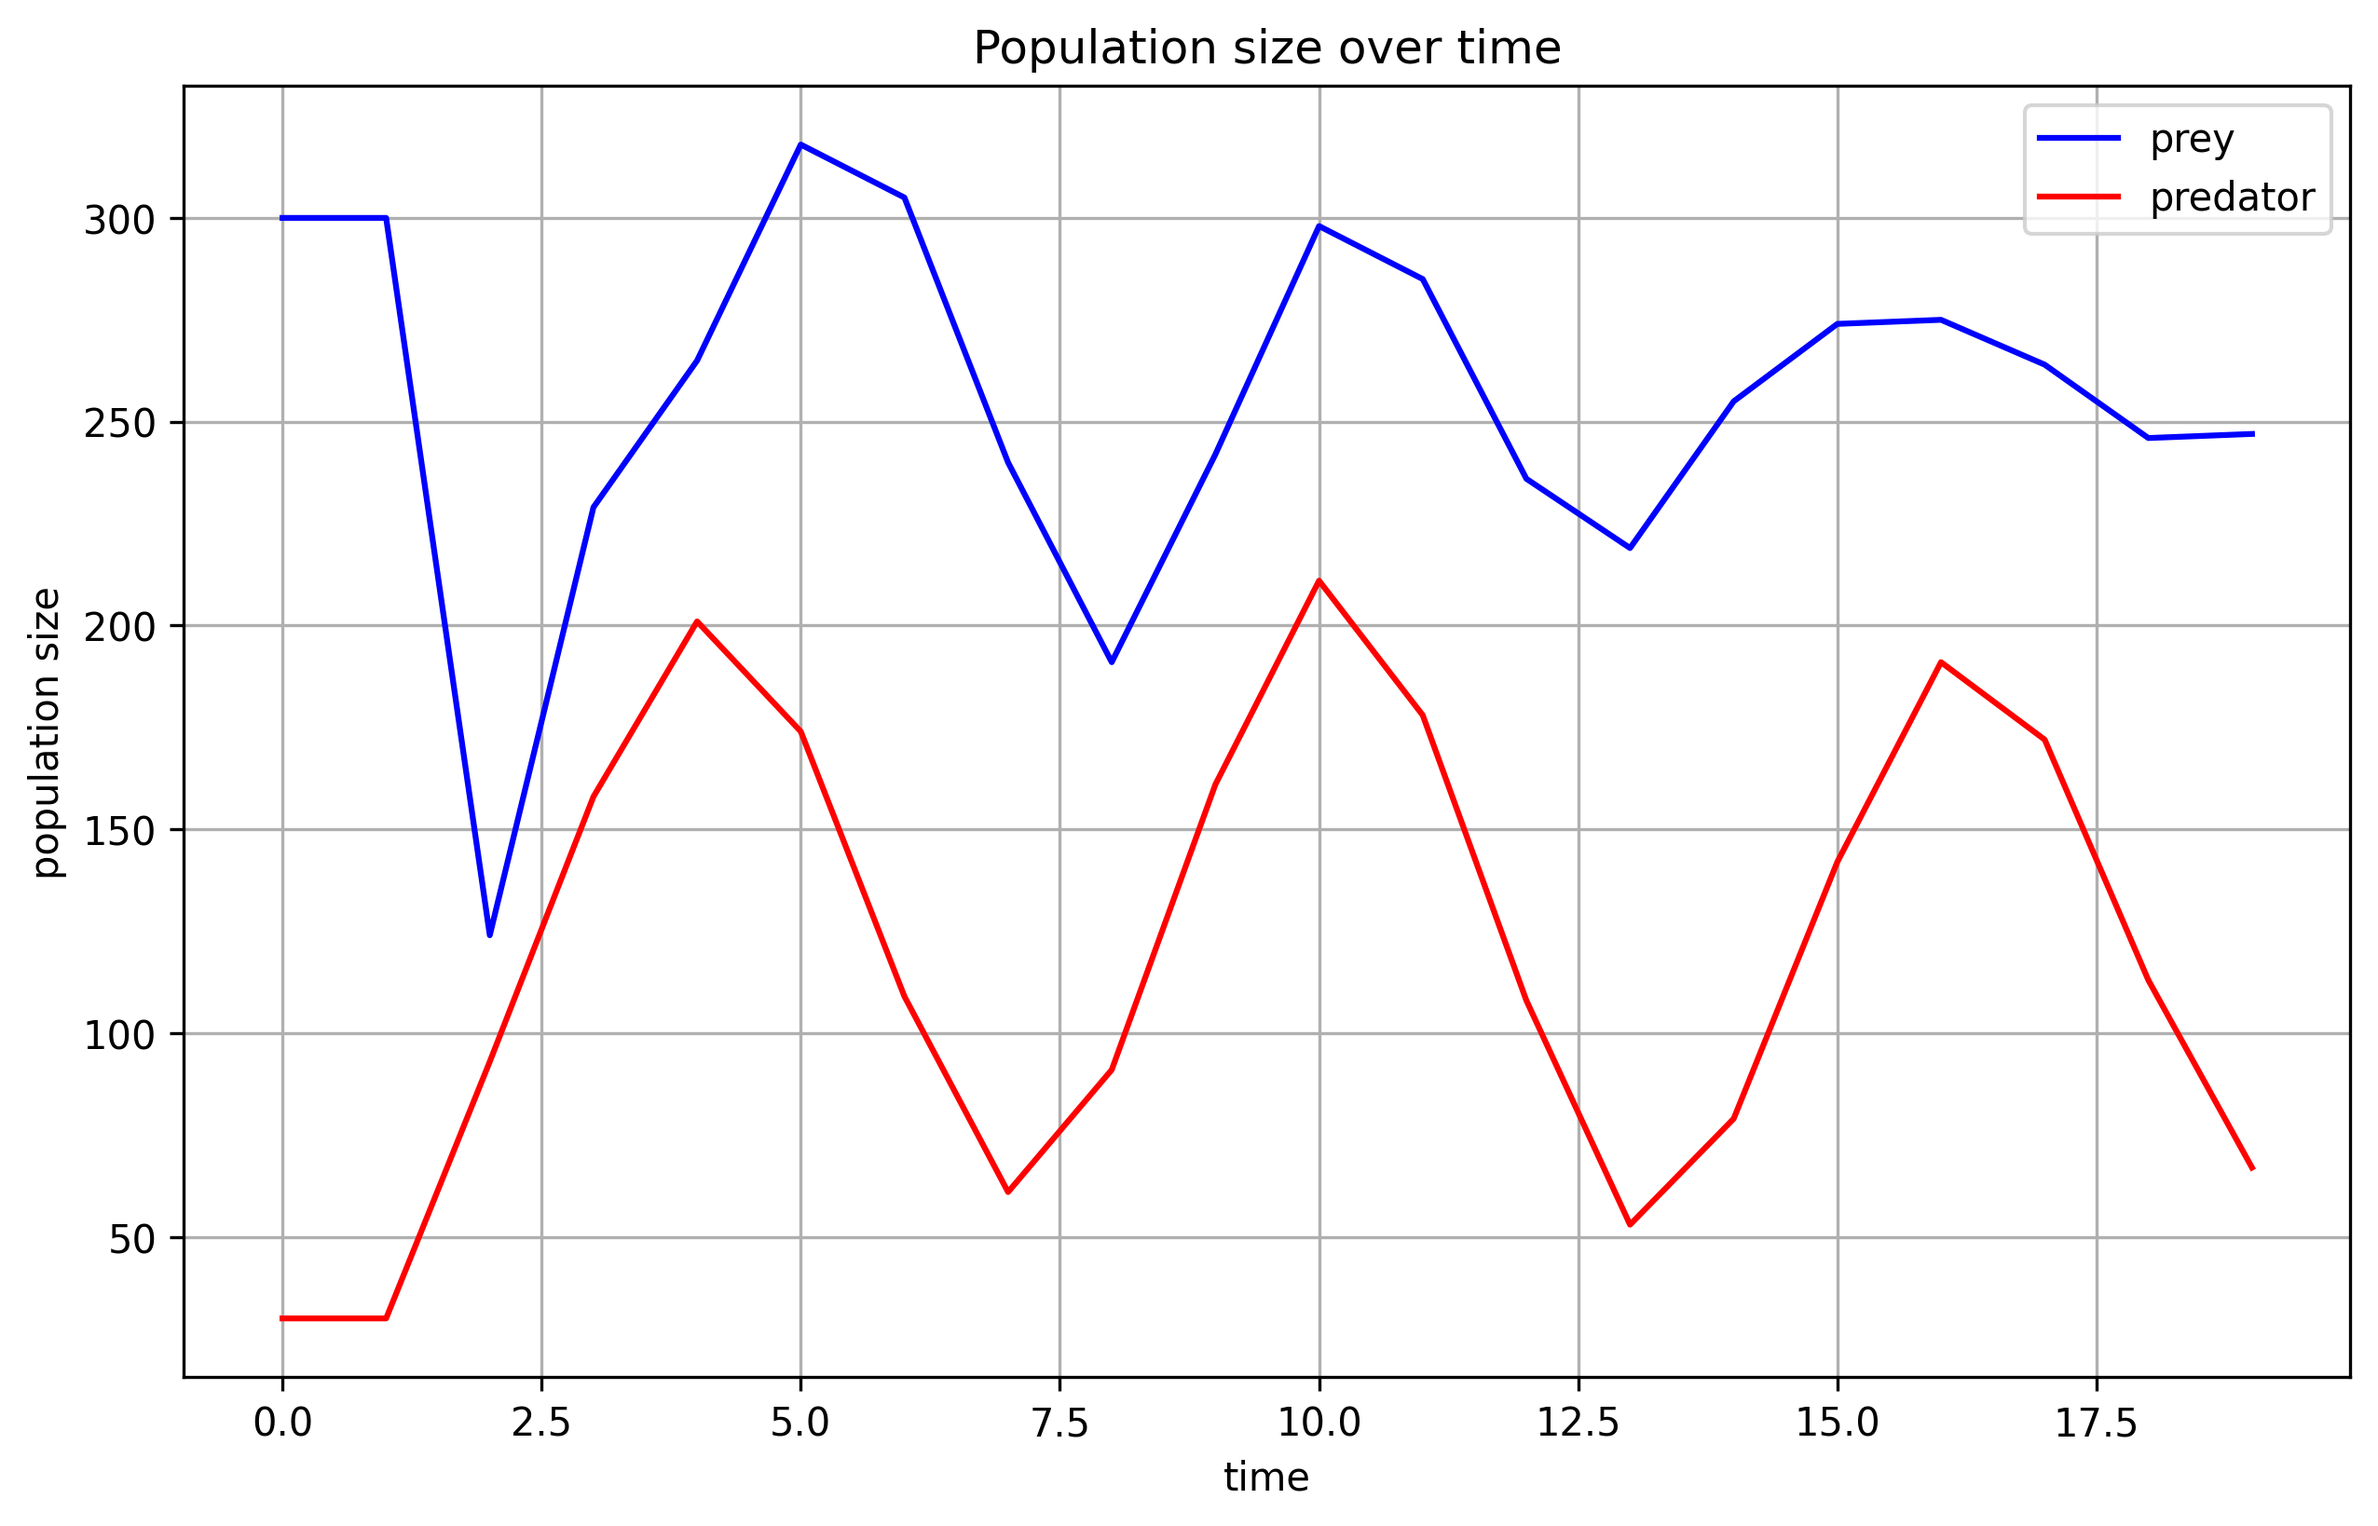
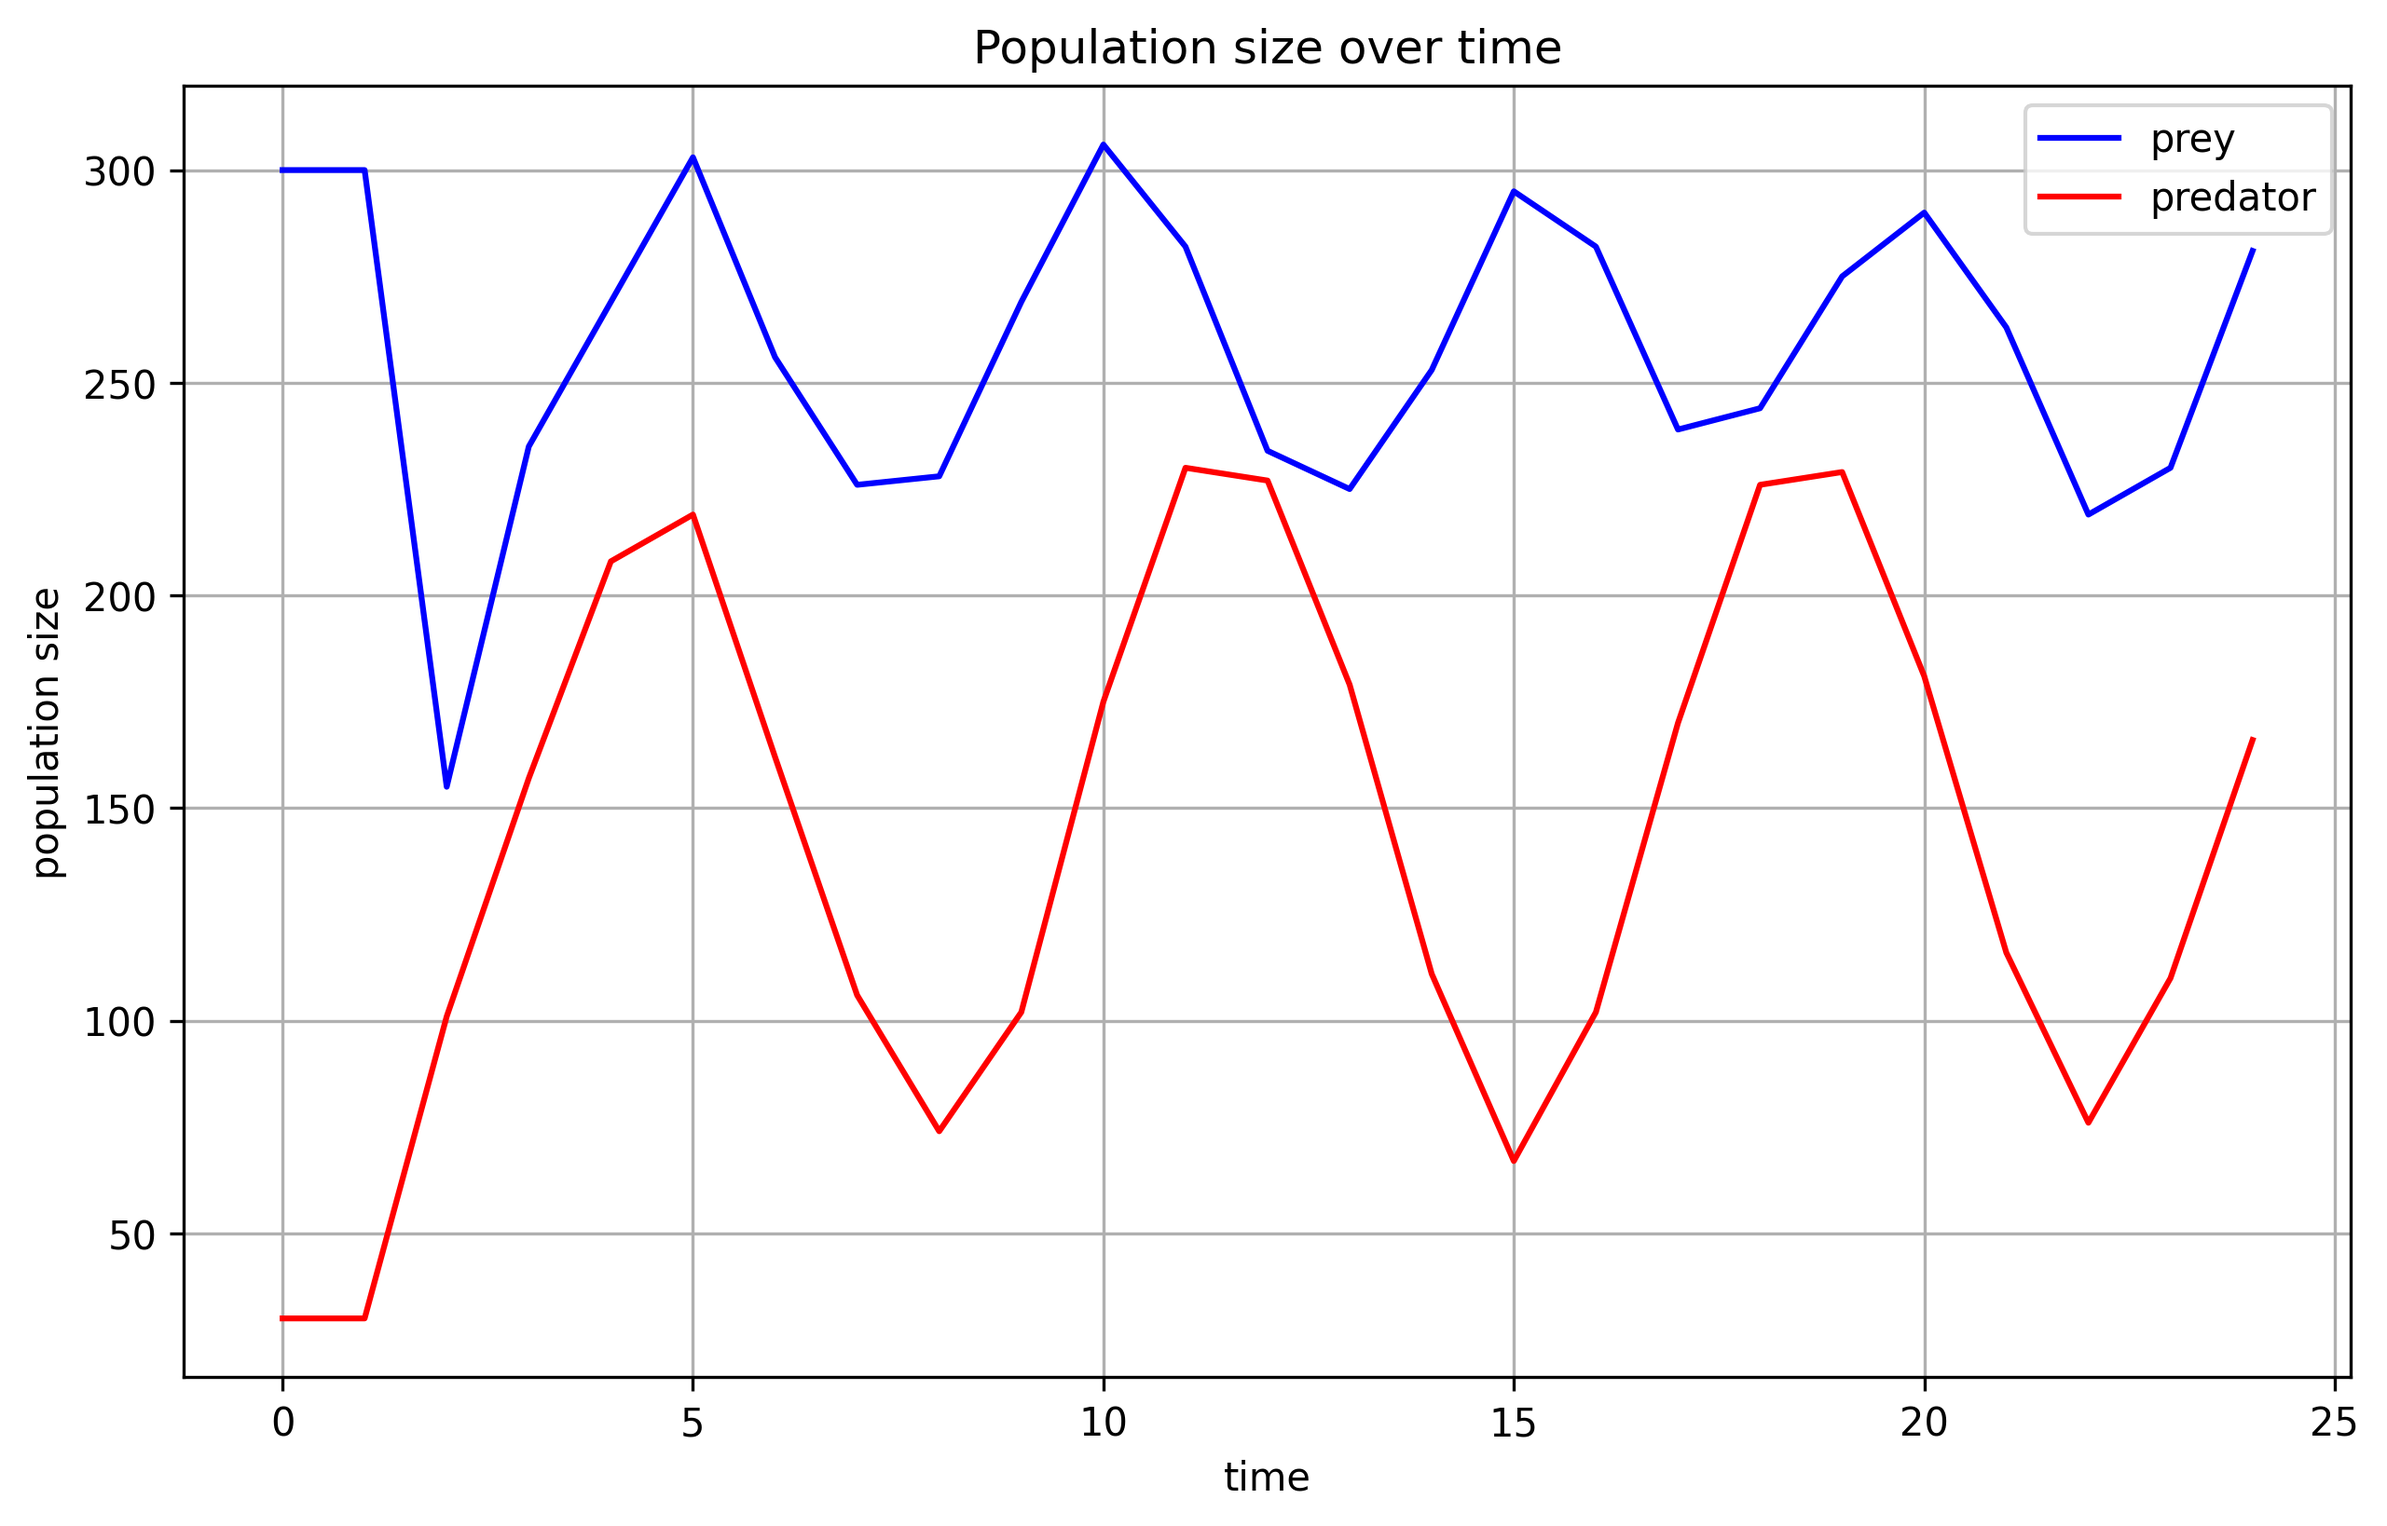
update

diff --git a/Two_Species_3rd.py b/Two_Species_3rd.py
@@ -1,4 +1,10 @@
 # @Author  : Mei Jiaojiao
+# @Time    : 2023/12/1 10:41
+# @Software: PyCharm
+# @File    : Two_Species_3rd.py
+
+
+# @Author  : Mei Jiaojiao
 # @Time    : 2023/12/01 08:52
 # @Software: PyCharm
 # @File    : Two_Species.py
@@ -60,7 +66,6 @@ class Prey(Species):
                 distance = np.sqrt((self.x - predator.x) ** 2 + (self.y - predator.y) ** 2)
                 if distance <= (self.activity_radius + predator.activity_radius):
                     self.being_caught = True
-                    self.num_offspring = 0
                     time_for_predation = 1
                     self.death_time = time_for_predation + current_time
                     predator.death_time += time_for_predation
@@ -144,7 +149,6 @@ class Predator(Species):
                     prey.being_caught = True
                     self.eat = True
                     time_for_predation = 1
-                    prey.num_offspring = 0
                     prey.death_time = time_for_predation + current_time
                     self.death_time += time_for_predation
                     if np.random.rand() < 1 - current_predator_pop_size / predator_pop_limit:
@@ -186,8 +190,7 @@ def update_predators_status(population, current_time):
             agent.status = 'active'
         if not agent.eat:
             agent.not_eat += 1
-            agent.num_offspring -= 1
-        if agent.not_eat == 4:
+        if agent.not_eat == 5:
             agent.status = 'dead'
 
 
@@ -200,30 +203,30 @@ def update_prey_status(population, current_time):
 
 
 # Prey and Predator params
-x_grid = 40
-y_grid = 40
-prey_pop_limit = 900
-time = 300
+x_grid = 50
+y_grid = 50
+prey_pop_limit = 500
+time = 25
 prey_params = {
     'x_grid': x_grid,
     'y_grid': y_grid,
     'species_name': 'prey',
-    'species_average_life_span': 12,
+    'species_average_life_span': 20,
     'species_offspring_possion_mean': 10,
     'init_species_size': 300,
     'activity_radius_max': 2,
-    'speed_max': 1
+    'speed_max': 3
 }
-predator_pop_limit = 150
+predator_pop_limit = 200
 predator_params = {
     'x_grid': x_grid,
     'y_grid': y_grid,
     'species_name': 'predator',
-    'species_average_life_span':7,
-    'species_offspring_possion_mean': 0.8,
-    'init_species_size': 10,
-    'activity_radius_max': 4,
-    'speed_max': 2.5
+    'species_average_life_span': 8,
+    'species_offspring_possion_mean': 1.5,
+    'init_species_size': 30,
+    'activity_radius_max': 12,
+    'speed_max': 4
 }
 
 # Create prey and predator populations
